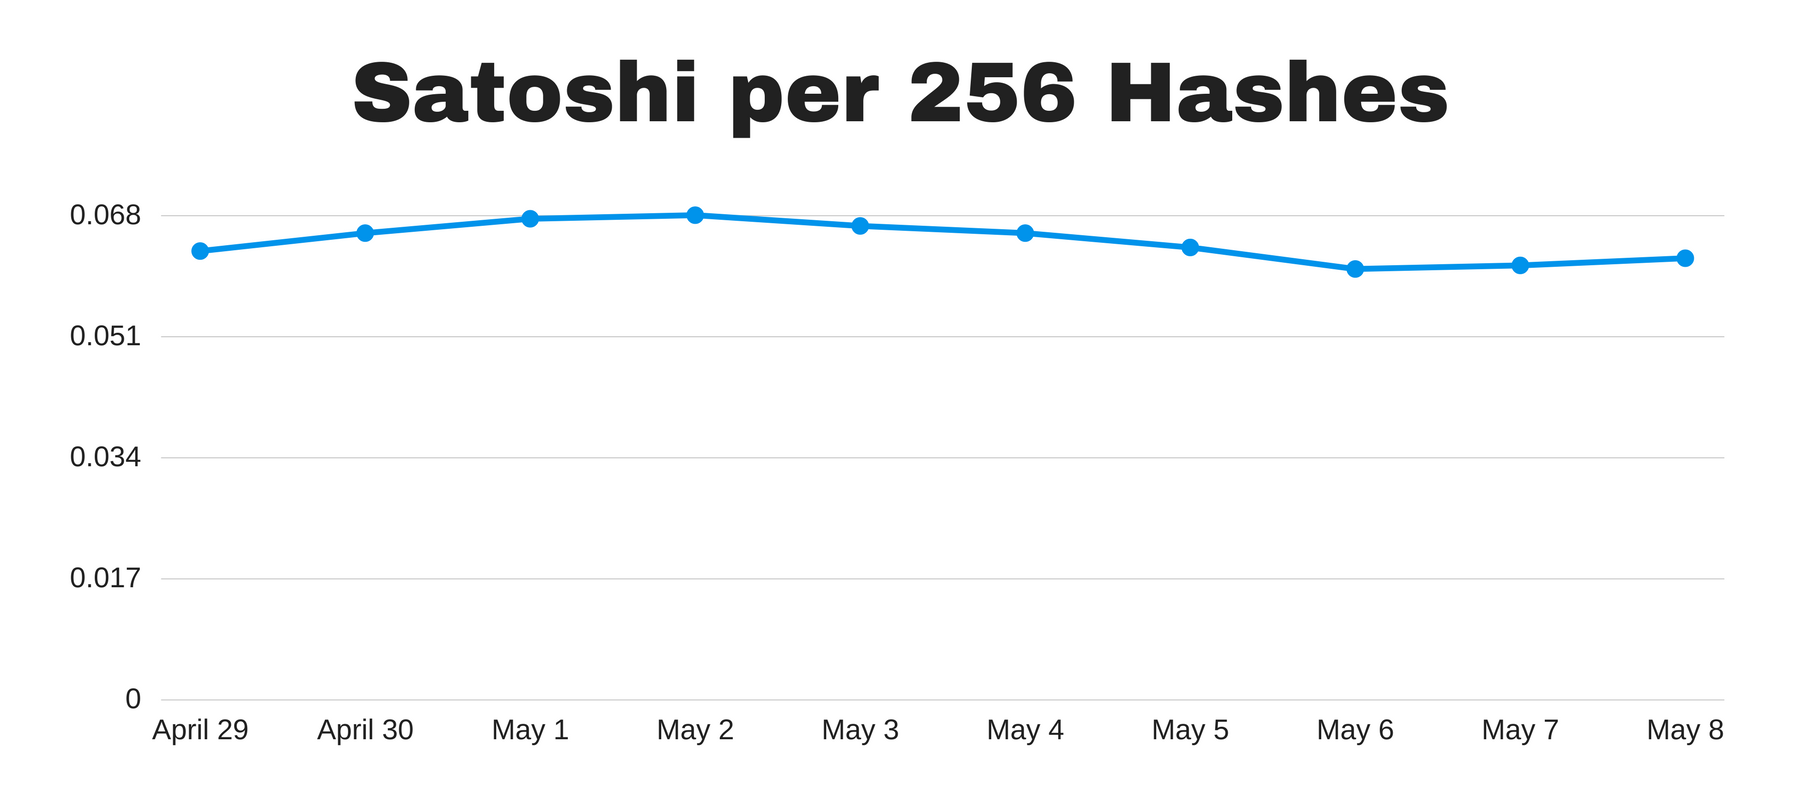
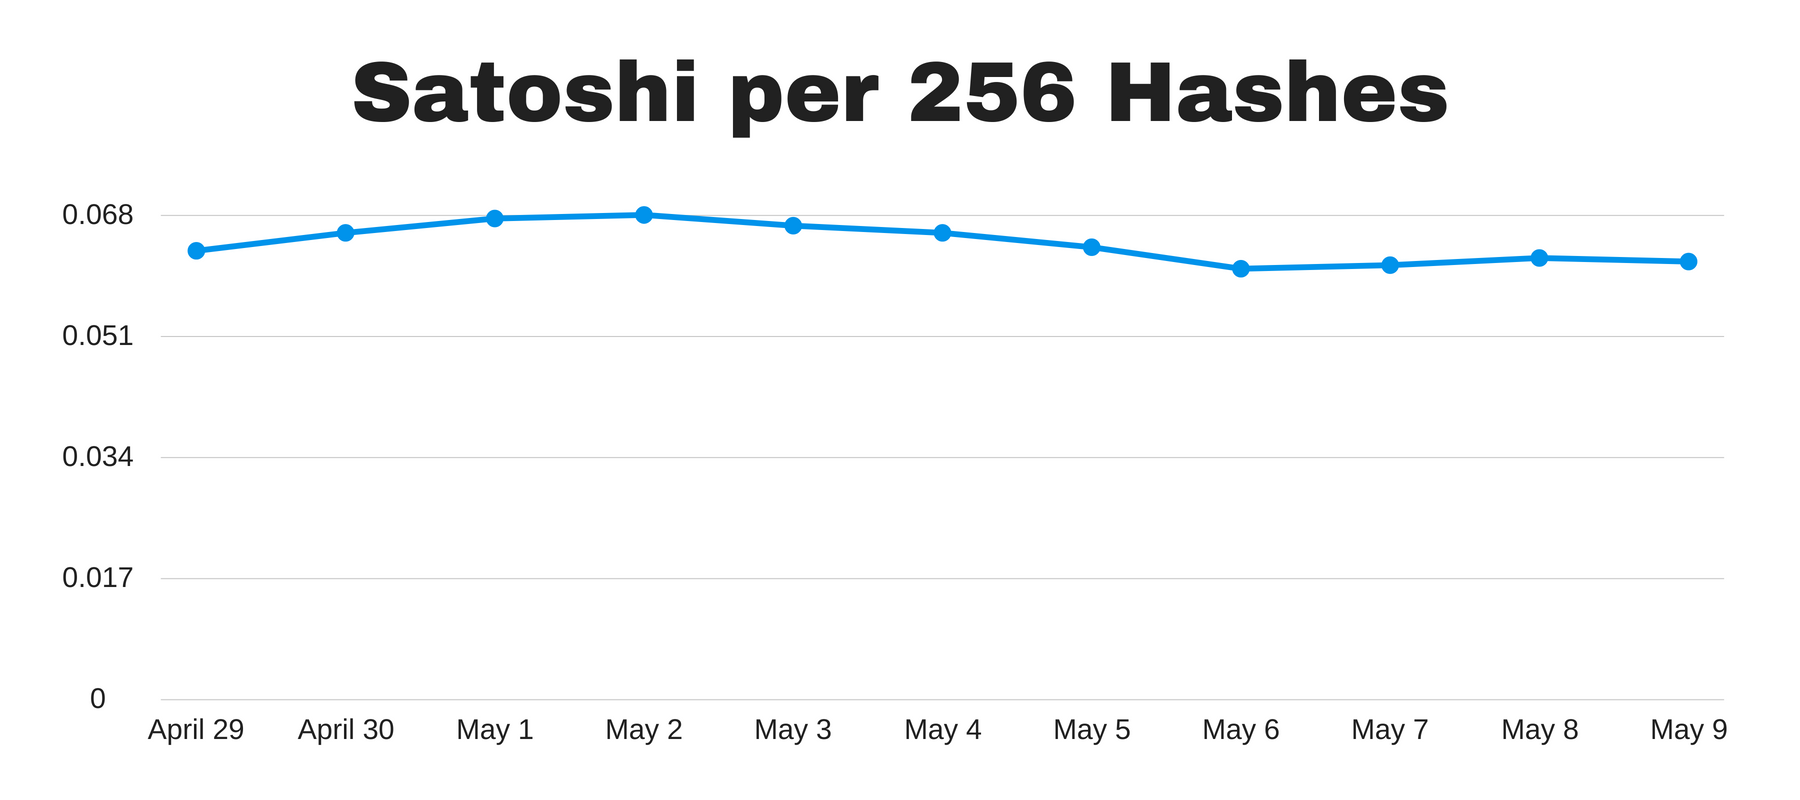
Add files via upload

diff --git a/status/api/data-v2.html b/status/api/data-v2.html
@@ -1,5 +1,5 @@
-{paymentRateDiv="4162"}
-{paymentRate256="0.0615"}
+{paymentRateDiv="4196"}
+{paymentRate256="0.061"}
 
 {newestAvailableVerCode="1350"}
 {newestAvailableVerName="1.3.5"}
@@ -8,7 +8,7 @@
 {oldestSupportedVerCode="1350"}
 
 {showNotify="true"}
-{notifyTitle="Today's exchange rate is 0.0615 Satoshi for 256 hashes. For more information about exchange rates and to check the latest updates visit http://miner.tweakly.net/rates. Remember to leave a review on the download page if your payment works! Thanks!"} //actually the text oops
+{notifyTitle="Today's exchange rate is 0.061 Satoshi for 256 hashes. For more information about exchange rates and to check the latest updates visit http://miner.tweakly.net/rates. Remember to leave a review on the download page if your payment works! Thanks!"} //actually the text oops
 {notifyText="Welcome"} //actually the title oops
 {notifyExit="Close"}
 {notifyID="3"}

diff --git a/exchange-rates-raw.html b/exchange-rates-raw.html
@@ -5,6 +5,9 @@
 <script src="css-switching.js"></script>
 
 <hr />
+<p class="text">May 9: <strong>0.061 Satoshi</strong></p> <p class="down">▼ 0.0005 Satoshi</p>
+
+<hr />
 <p class="text">May 8: <strong>0.0615 Satoshi</strong></p> <p class="up">▲ 0.001 Satoshi</p>
 
 <hr />
